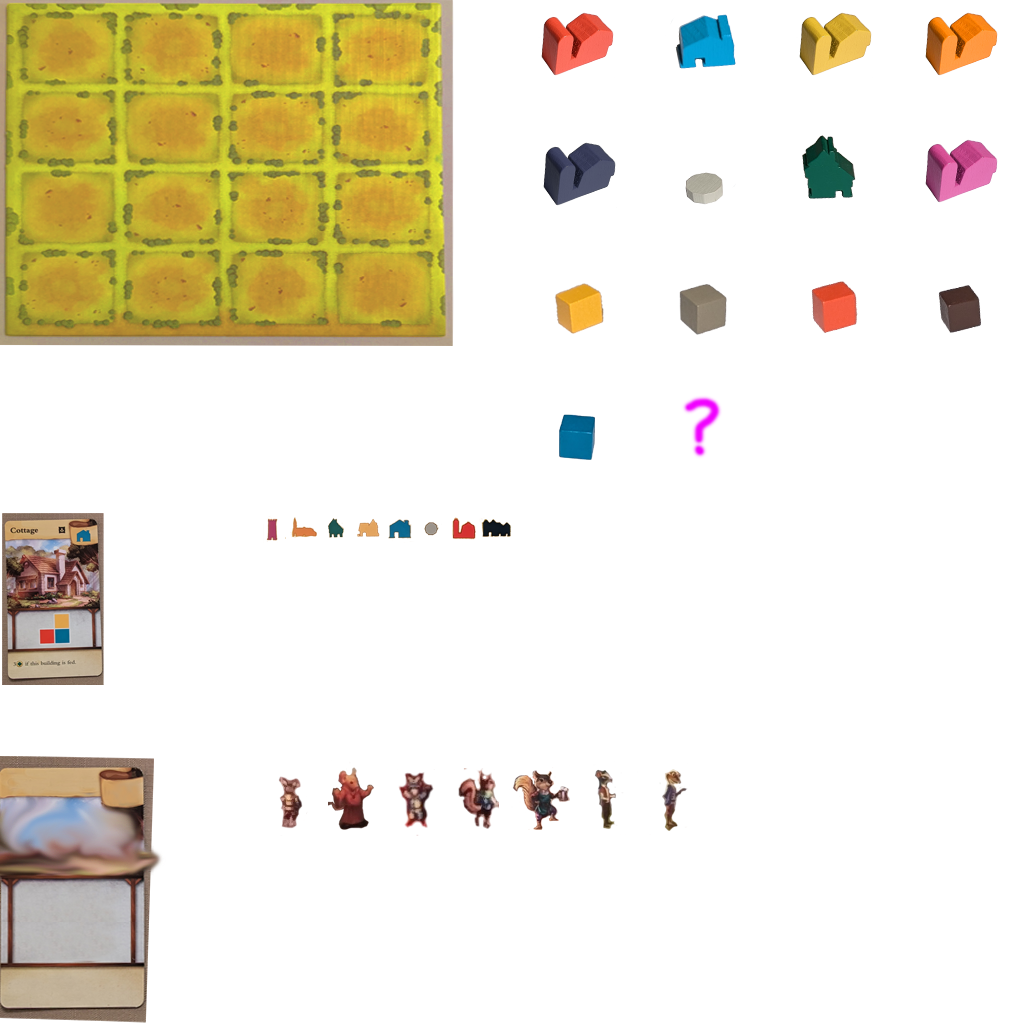
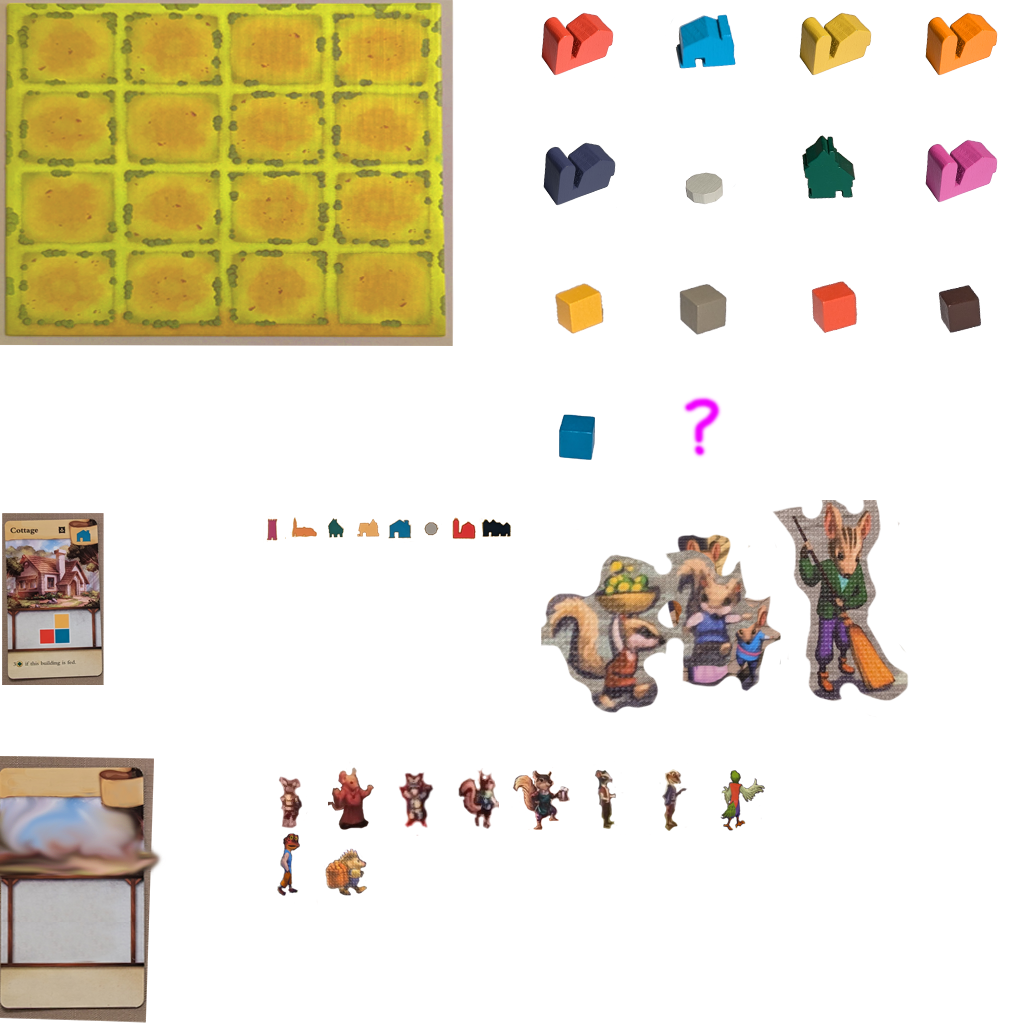
scale critters, sort

Changed region(s): [[0.5312, 0.4688, 0.9062, 0.7188], [0.25, 0.8125, 0.375, 0.875], [0.6875, 0.75, 0.75, 0.8125]]

diff --git a/helly/helly.js b/helly/helly.js
@@ -1,4 +1,4 @@
-// Version 2025-03-04
+// Version 2025-03-26
 
 import HellyLoad from './hellyload.js';
 
@@ -25,19 +25,19 @@ export default class Helly extends EventTarget {
       console.error(`ERROR: loading ${filename} - ${error}`);
     }
     this.hellyLoad.defineType('image', ['png', 'jpg', 'jpeg', 'gif'], (image, type, key) => {
-      console.log(`pretending to handle ccc ${image.type} ${type} ${key}`);
+      //console.log(`pretending to handle ccc ${image.type} ${type} ${key}`);
       this.images.set(key, image);
     });
     this.hellyLoad.defineType('json', ['json'], (ob, type, baseFileName, fileName) => {
-      console.log(`pretending to handle bbb ${ob.type} ${type} ${baseFileName} ${fileName}`);
+      //console.log(`pretending to handle bbb ${ob.type} ${type} ${baseFileName} ${fileName}`);
       this.parentPath = fileName.substring(0, fileName.lastIndexOf('/'));
-      console.log(`ddd Parent path: ${this.parentPath}`);
+      //console.log(`ddd Parent path: ${this.parentPath}`);
       this._onLoadJson(ob);
     });
   }
 
   load(filename, type) {
-    console.log(`aaa ${filename} ${type}`);
+    //console.log(`aaa ${filename} ${type}`);
     this.hellyLoad.load(filename, type);
   }
 
@@ -98,18 +98,19 @@ export default class Helly extends EventTarget {
     this.time += dt;
   }
 
-  draw(drawable, position, alpha) {
+  draw(drawable, position, meta) {
     if (typeof drawable === 'string') {
       if (this.sprites.has(drawable)) {
-        this.drawSprite(this.sprites.get(drawable), position, alpha);
+        this.drawSprite(this.sprites.get(drawable), position, meta);
         return;
       }
       if (this.anims.has(drawable)) {
-        this.drawAnim(this.anims.get(drawable), position, alpha);
+        this.drawAnim(this.anims.get(drawable), position, meta);
         return;
       }
     }
 
+    position = position || this._getMetaData(null, meta, 'position') || [0, 0];
     if (drawable !== null && typeof drawable === 'object') {
       if (drawable.type === 'image') {
         this.context.drawImage(this.images.get(drawable.image), ...position);
@@ -125,28 +126,44 @@ export default class Helly extends EventTarget {
     this.context.fillRect(...position, ...size);
   }
 
-  drawSprite(sprite, position = [0,0], alpha) {
+  drawSprite(sprite, position, meta) {
     if (!sprite.image && sprite.imageName) {
       sprite.image = this.images.get(sprite.imageName);
       return;
     }
+    position = position || _this.getMetaData(sprite, meta, 'position') || [0, 0];
     if (!sprite.image) {
       this.drawColor(position, sprite.size);
       return;
     }
-    alpha = alpha || sprite.alpha || 1;
-    this.context.globalAlpha = alpha;
-    const source = sprite.source;
+
+    let alpha = this._getMetaData(sprite, meta, 'alpha') ?? 1;
+    let scale = this._getMetaData(sprite, meta, 'scale') ?? 1;
+    let scalex = scale;
+    let scaley = scale;
+    if (this._getMetaData(sprite, meta, 'hflip')) scalex *= -1;
     let offset = sprite.offset || [0, 0];
+    let angle = this._getMetaData(sprite, meta, 'rotate') || 0;
+
+    const source = sprite.source;
+
+    let destSize = [sprite.size[0] * scalex, sprite.size[1] * scaley];
+
+    this.context.save();
+    this.context.globalAlpha = alpha;
+    this.context.translate(...position);
+    this.context.scale(scalex, scaley);
+    this.context.rotate(angle);
     this.context.drawImage(sprite.image,
       ...source,
       ...sprite.size,
-      position[0] - offset[0], position[1] - offset[1],
-      ...sprite.size);
-    this.context.globalAlpha = 1;
-    }
+      ...[-offset[0], -offset[1]],
+      ...sprite.size
+    );
+    this.context.restore();
+  }
 
-  drawAnim(anim, position = [0,0], alpha) {
+  drawAnim(anim, position, meta) {
     let n = anim.frames.length;
     let fps = anim.fps || 10;
     let duration = 1 / fps;
@@ -158,7 +175,16 @@ export default class Helly extends EventTarget {
     this.draw(frame, position);
     if (anim.crossfade) {
       let nextFrame = anim.frames[j];
-      this.draw(nextFrame, position, f);
+      this.draw(nextFrame, position, {alpha: f});
+    }
+  }
+
+  _getMetaData(item, meta, key) {
+    if (item.type === 'object' && key in item) {
+      return item[key];
+    }
+    if (meta && key in meta) {
+      return meta[key];
     }
   }
 

diff --git a/iris/helly.js b/iris/helly.js
@@ -1,4 +1,4 @@
-// Version 2025-03-04
+// Version 2025-03-26
 
 import HellyLoad from './hellyload.js';
 
@@ -98,18 +98,19 @@ export default class Helly extends EventTarget {
     this.time += dt;
   }
 
-  draw(drawable, position, alpha) {
+  draw(drawable, position, meta) {
     if (typeof drawable === 'string') {
       if (this.sprites.has(drawable)) {
-        this.drawSprite(this.sprites.get(drawable), position, alpha);
+        this.drawSprite(this.sprites.get(drawable), position, meta);
         return;
       }
       if (this.anims.has(drawable)) {
-        this.drawAnim(this.anims.get(drawable), position, alpha);
+        this.drawAnim(this.anims.get(drawable), position, meta);
         return;
       }
     }
 
+    position = position || this._getMetaData(null, meta, 'position') || [0, 0];
     if (drawable !== null && typeof drawable === 'object') {
       if (drawable.type === 'image') {
         this.context.drawImage(this.images.get(drawable.image), ...position);
@@ -125,28 +126,44 @@ export default class Helly extends EventTarget {
     this.context.fillRect(...position, ...size);
   }
 
-  drawSprite(sprite, position = [0,0], alpha) {
+  drawSprite(sprite, position, meta) {
     if (!sprite.image && sprite.imageName) {
       sprite.image = this.images.get(sprite.imageName);
       return;
     }
+    position = position || this._getMetaData(sprite, meta, 'position') || [0, 0];
     if (!sprite.image) {
       this.drawColor(position, sprite.size);
       return;
     }
-    alpha = alpha || sprite.alpha || 1;
-    this.context.globalAlpha = alpha;
-    const source = sprite.source;
+
+    let alpha = this._getMetaData(sprite, meta, 'alpha') ?? 1;
+    let scale = this._getMetaData(sprite, meta, 'scale') ?? 1;
+    let scalex = scale;
+    let scaley = scale;
+    if (this._getMetaData(sprite, meta, 'hflip')) scalex *= -1;
     let offset = sprite.offset || [0, 0];
+    let angle = this._getMetaData(sprite, meta, 'rotate') || 0;
+
+    const source = sprite.source;
+
+    let destSize = [sprite.size[0] * scalex, sprite.size[1] * scaley];
+
+    this.context.save();
+    this.context.globalAlpha = alpha;
+    this.context.translate(...position);
+    this.context.scale(scalex, scaley);
+    this.context.rotate(angle);
     this.context.drawImage(sprite.image,
       ...source,
       ...sprite.size,
-      position[0] - offset[0], position[1] - offset[1],
-      ...sprite.size);
-    this.context.globalAlpha = 1;
-    }
+      ...[-offset[0], -offset[1]],
+      ...sprite.size
+    );
+    this.context.restore();
+  }
 
-  drawAnim(anim, position = [0,0], alpha) {
+  drawAnim(anim, position, meta) {
     let n = anim.frames.length;
     let fps = anim.fps || 10;
     let duration = 1 / fps;
@@ -158,7 +175,16 @@ export default class Helly extends EventTarget {
     this.draw(frame, position);
     if (anim.crossfade) {
       let nextFrame = anim.frames[j];
-      this.draw(nextFrame, position, f);
+      this.draw(nextFrame, position, {alpha: f});
+    }
+  }
+
+  _getMetaData(item, meta, key) {
+    if (item && item.type === 'object' && key in item) {
+      return item[key];
+    }
+    if (meta && key in meta) {
+      return meta[key];
     }
   }
 

diff --git a/iris/gamemode.js b/iris/gamemode.js
@@ -169,19 +169,6 @@ export default class GameMode {
 
     this.iris.helly.draw('board', this.layout.tilearea.bounds);
 
-    for (let i = 0; i < 16; i++) {
-      let board = this.towns.board.tiles[i];
-      let square = this.layout.tiles[i];
-      if (board.building) {
-        const b = this._buildingToSprite(board.building);
-        this.iris.helly.draw(b, this._center(square.bounds));
-      }
-      if (board.resource) {
-        const r = this._resourceToSprite(board.resource);
-        this.iris.helly.draw(r, this._center(square.bounds));
-      }
-    }
-
     this.layout.resources.forEach(resource => {
       const resourceId = `resource${String(resource.id).padStart(2, '0')}`;
       let start = this.iris.areas.start;
@@ -221,7 +208,28 @@ export default class GameMode {
       }
     }
 
-    this.critters.render(time, dt);
+    // Get all the board objects, sort them, then draw them
+    let things = [];
+    for (let i = 0; i < 16; i++) {
+      let board = this.towns.board.tiles[i];
+      let square = this.layout.tiles[i];
+      if (board.building) {
+        const b = this._buildingToSprite(board.building);
+        things.push([b, { position: this._center(square.bounds)}]);
+      }
+      if (board.resource) {
+        const r = this._resourceToSprite(board.resource);
+        things.push([r, { position:   this._center(square.bounds)}]);
+      }
+    }
+    let critters = this.critters.getSprites(time, dt);
+    critters.forEach(critter => {
+      things.push(critter);
+    });
+    things.sort((a, b) => a[1].position[1] - b[1].position[1]);
+    things.forEach(([sprite, meta]) => {
+      this.iris.helly.draw(sprite, null, meta);
+    });
 
     // cursor
     if (this.iris.areas.start && this.dragMeeple) {

diff --git a/iris/critters.js b/iris/critters.js
@@ -3,24 +3,32 @@ export default class DrawCard {
     this.iris = iris;
     this.context = iris.context;
     this.critters = [];
-    this.speed = 0.4;
+    this.speed = 0.2;
+    this.scale = 0.6;
   }
 
-  render(time, dt) {
-    let target = this.iris.mode.towns.board.countUsed() + 1;
+  getSprites(time, dt) {
+    let target = this.iris.mode.towns.board.countUsed() + 10;
 
     if (this.critters.length < target) {
       this.critters.push(this._makeCritter());
     }
 
+    let list = [];
     this.critters.forEach(critter => {
       let done = this._update(critter, dt);
       if (done) {
         this.critters = this.critters.filter(c => c !== critter);
       }
       let world = this._toWorld(critter.position);
-      this.iris.helly.draw('critter' + critter.type, world);
+      let name = 'critter' + String(critter.type).padStart(2, '0');
+      list.push([name, {
+        scale: this.scale,
+        hflip: critter.hflip,
+        position: world,
+      }]);
     });
+    return list;
   }
 
   _makeCritter() {
@@ -30,9 +38,10 @@ export default class DrawCard {
     let delta = [side ? 1 : -1, 0];
     let c = {
       position: [x, y],
-      type: Math.floor(Math.random() * 7),
+      type: Math.floor(Math.random() * 10),
       speed: this.speed + Math.random() * 0.2 - 0.1,
       delta: delta,
+      hflip: !side,
     };
     return c;
   }

diff --git a/helly/program.js b/helly/program.js
@@ -67,6 +67,19 @@ export default class Program {
     this.helly.draw('riverstr', this._gridToWorld([2, 8]));
     this.helly.draw('riverstr2', this._gridToWorld([4, 8]));
 
+    this.helly.draw('redx', [500, 500]);
+    this.helly.draw('greenr', [500, 500]);
+    this.helly.draw('redx', [550, 500]);
+    this.helly.draw('greenr', [550, 500], { hflip: true });
+    this.helly.draw('redx', [600, 500]);
+    this.helly.draw('greenr', [600, 500], { scale: 0.75, alpha: 0.5 });
+    this.helly.draw('redx', [650, 500]);
+    this.helly.draw('greenr', [650, 500], { hflip: true, scale: 0.75 });
+    this.helly.draw('redx', [700, 500]);
+    this.helly.draw('greenr', [700, 500], { scale: 0.5 });
+    this.helly.draw('redx', [750, 500]);
+    this.helly.draw('greenr', [750, 500], { scale: 0.5, rotate: 0.2 });
+
     requestAnimationFrame((timestamp) => this.doFrame(timestamp));
   }
 
